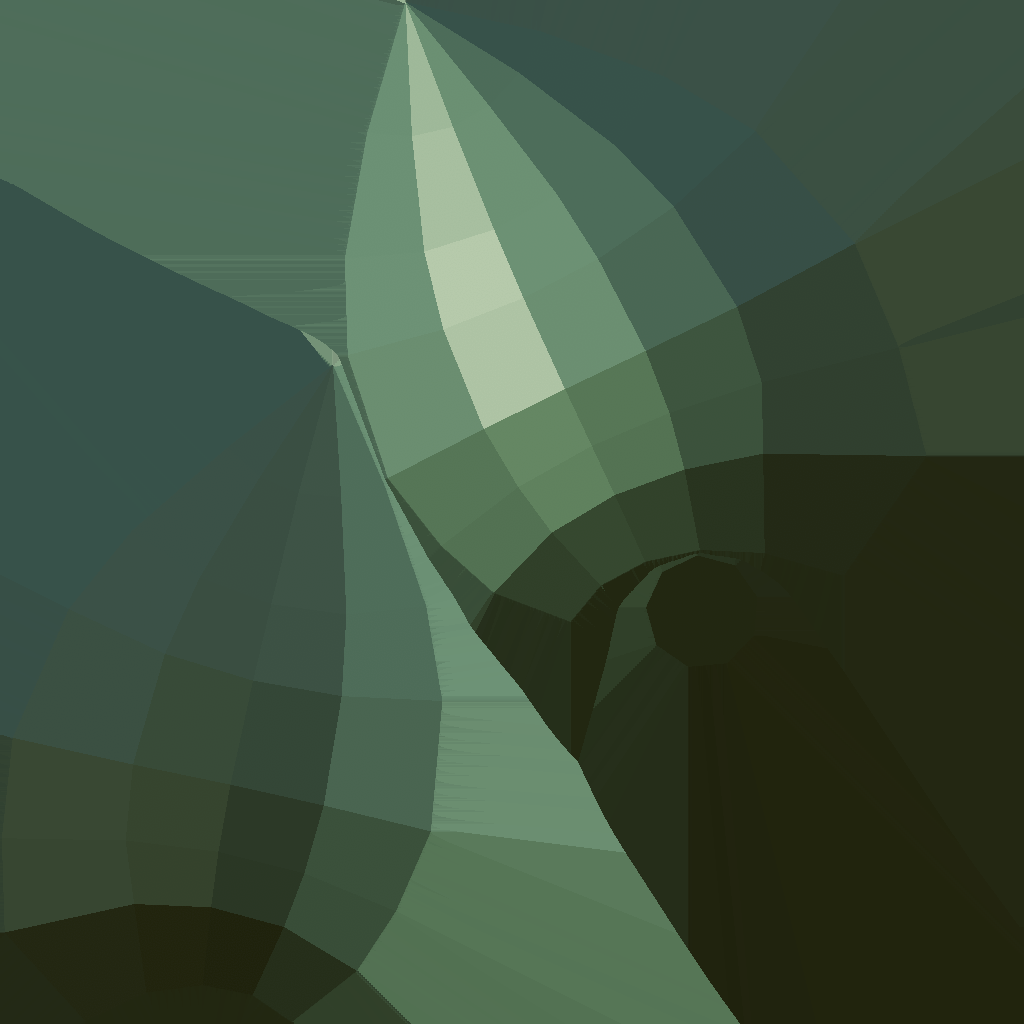
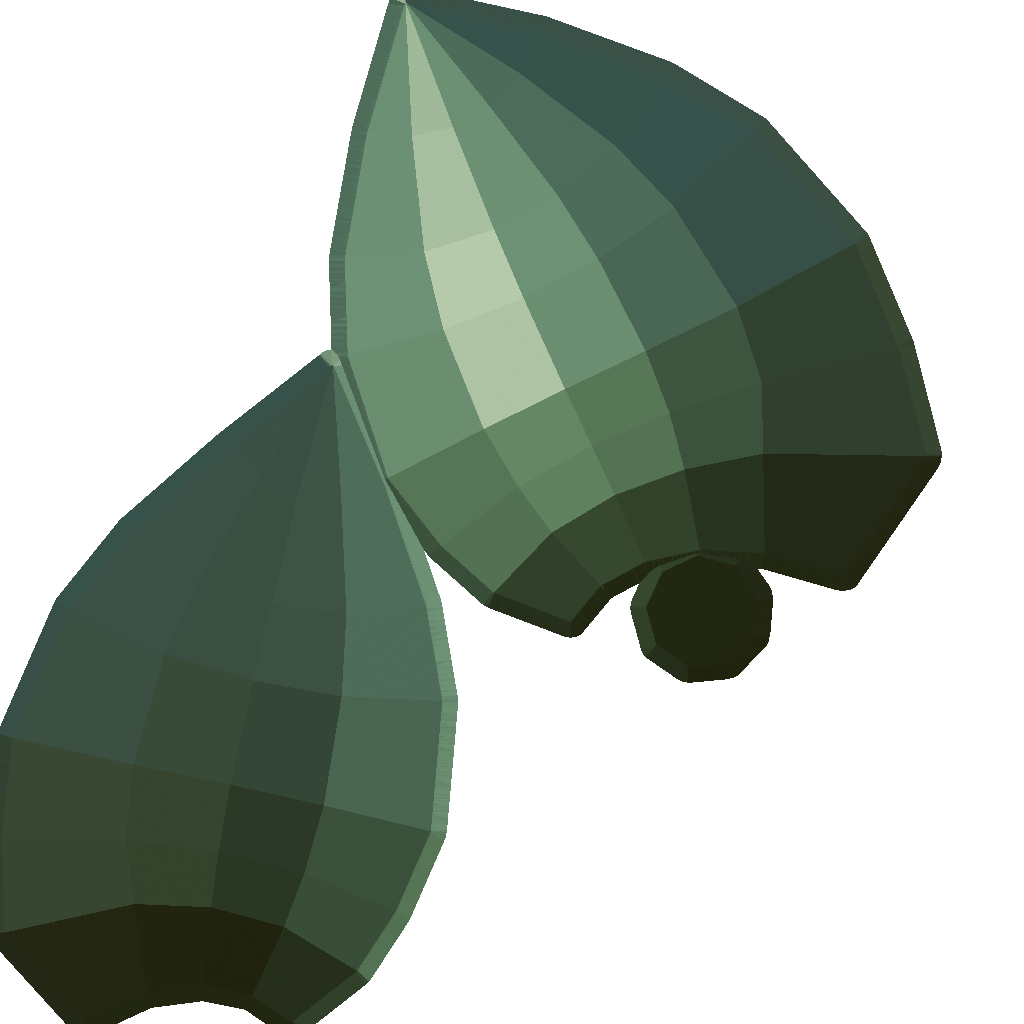
Meshs 3D fonctionnels

diff --git a/LyonPlexLib/LyonPlexLib/Src/MeshManager.cpp b/LyonPlexLib/LyonPlexLib/Src/MeshManager.cpp
@@ -321,15 +321,39 @@ bool MeshData::LoadFromFile(const std::string& path)
 	//	OutputDebugStringA(buf);
 	//}
 
+	  // ──────────────────────────────────────────────────────────────
+    // 1) Passage RH -> LH : inverser Z des positions et normales
+    for (size_t i = 0; i < attrib.vertices.size(); i += 3)
+        attrib.vertices[i + 2] = -attrib.vertices[i + 2];
+    
+	if (!attrib.normals.empty())
+    {
+        for (size_t i = 0; i < attrib.normals.size(); i += 3)
+            attrib.normals[i + 2] = -attrib.normals[i + 2];
+    }
 
+    //// 2) Inverser le winding de chaque face (swap i0/i1)
+    //for (auto &shape : shapes)
+    //{
+    //    auto &idxs = shape.mesh.indices;
+    //    for (size_t f = 0; f + 2 < idxs.size(); f += 3)
+    //        std::swap(idxs[f + 0], idxs[f + 1]);
+    //}
 
-	// store material names
+    // 3) Corriger le V de l’UV (optionnel mais souvent nécessaire)
+    for (size_t i = 0; i < attrib.texcoords.size(); i += 2)
+        attrib.texcoords[i + 1] = 1.0f - attrib.texcoords[i + 1];
+    // ──────────────────────────────────────────────────────────────
+
+    // store material names
 	materialNames.clear();
 	for (auto& m : materials)
 		materialNames.push_back(m.diffuse_texname);
 	
 	// dedupe and build global vertex list
-	vertices.clear(); indices.clear(); subMeshes.clear();
+	vertices.clear(); 
+	indices.clear(); 
+	subMeshes.clear();
 	std::unordered_map<VertexParam, uint32_t> uniqueVertices;
 	uint32_t indexCursor = 0;
 	for (size_t s = 0; s < shapes.size(); ++s)
@@ -351,15 +375,16 @@ bool MeshData::LoadFromFile(const std::string& path)
 			if (!attrib.texcoords.empty()) {
 				size_t ti = 2 * idx.texcoord_index;
 				v.TexCoord = { attrib.texcoords[ti], attrib.texcoords[ti + 1] };
-				//{
-				//	// DEBUG
-				//	char buf[128];
-				//	sprintf_s(buf, sizeof(buf),
-				//		"  build vert[%zu]  UV=(%.3f, %.3f)\n",
-				//		vertices.size(),
-				//		v.TexCoord.x, v.TexCoord.y);
-				//	OutputDebugStringA(buf);
-				//}
+				
+				//// DEBUG
+				{					
+					char buf[128];
+					sprintf_s(buf, sizeof(buf),
+						"  build vert[%zu]  UV=(%.3f, %.3f)\n",
+						vertices.size(),
+						v.TexCoord.x, v.TexCoord.y);
+					OutputDebugStringA(buf);
+				}
 			}
 			auto it = uniqueVertices.find(v);
 			if (it == uniqueVertices.end())
@@ -403,8 +428,10 @@ void MeshManager::Init(GraphicsDevice* graphicsDevice, TextureManager* textureMa
 	cb.materialTextureIDs = { 0 };
 	m_meshLibrary.Add(cb);
 
+
 	LoadMeshFromFile("../LyonPlexLib/Ressources/ArbreTest.obj");
 	LoadMeshFromFile("../LyonPlexLib/Ressources/Cepha1.obj");
+	LoadMeshFromFile("../LyonPlexLib/Ressources/Cube.obj");
 	BuildAndUploadGlobalBuffers();
 }
 
@@ -421,7 +448,23 @@ void MeshManager::LoadMeshFromFile(const std::string& path)
         const auto& name = mesh.materialNames[i];
         // assume relative to path's folder
         std::string baseDir = std::filesystem::path(path).remove_filename().string();
-        mesh.materialTextureIDs[i] = mp_textureManager->LoadTexture(baseDir + name);
+
+		// DEBUG
+		std::string texPath = baseDir + name;
+		char buf[256];
+		sprintf_s(buf, sizeof(buf),
+			"[LoadMeshFromFile] Loading texture `%s`\n", texPath.c_str());
+		OutputDebugStringA(buf);
+
+		TextureManager::TextureID tid = mp_textureManager->LoadTexture(texPath);
+
+		sprintf_s(buf, sizeof(buf),
+			"[LoadMeshFromFile] -> LoadTexture returned ID = %u\n", tid);
+		OutputDebugStringA(buf);
+
+		mesh.materialTextureIDs[i] = tid;
+        //mesh.materialTextureIDs[i] = mp_textureManager->LoadTexture(baseDir + name);
+
     }
 	// DEBUG
 	for (size_t i = 0; i < std::min<size_t>(mesh.vertices.size(), 6); ++i)

diff --git a/LyonPlexLib/SampleProject/Src/SampleScene2.cpp b/LyonPlexLib/SampleProject/Src/SampleScene2.cpp
@@ -29,27 +29,31 @@ void SampleScene2::Start()
 	AddComponent<MeshComponent>("cube", new MeshComponent(2, 0));
 	GetComponent<TransformComponent>("cube")->position = { 0, 0, -1 };
 
-	CreateEntity("tree1");
-	//AddComponent<Type_2D5>("tree1", new Type_2D5());
-	AddComponent<Type_3D_EXT>("tree1", new Type_3D_EXT());
-	AddComponent<MeshComponent>("tree1", new MeshComponent(3, 0));
-	GetComponent<TransformComponent>("tree1")->position = { 0, 0, 0 };
-	GetComponent<TransformComponent>("tree1")->scale = { 0.5, 0.5, 0.5 };
+	//CreateEntity("tree1");
+	//AddComponent<Type_3D_EXT>("tree1", new Type_3D_EXT());
+	//AddComponent<MeshComponent>("tree1", new MeshComponent(3, 0));
+	//GetComponent<TransformComponent>("tree1")->position = { 0, 0, 0 };
+	//GetComponent<TransformComponent>("tree1")->scale = { 0.5, 0.5, 0.5 };
 
 	CreateEntity("tree2");
-	//AddComponent<Type_2D5>("tree1", new Type_2D5());
 	AddComponent<Type_3D_EXT>("tree2", new Type_3D_EXT());
 	AddComponent<MeshComponent>("tree2", new MeshComponent(4, 5));
 	GetComponent<TransformComponent>("tree2")->position = { -2, 0, 0 };
 	GetComponent<TransformComponent>("tree2")->scale = { 0.5, 0.5, 0.5 };
 
-	CreateEntity("bras");
+	CreateEntity("cubeEXT");
+	AddComponent<Type_3D_EXT>("cubeEXT", new Type_3D_EXT());
+	AddComponent<MeshComponent>("cubeEXT", new MeshComponent(5, 5));
+	GetComponent<TransformComponent>("cubeEXT")->position = { 2, 0, 0 };
+	GetComponent<TransformComponent>("cubeEXT")->scale = { 0.5, 0.5, 0.5 };
+
+	/*CreateEntity("bras");
 	AddComponent<Type_2D>("bras", new Type_2D());
 	AddComponent<MeshComponent>("bras", new MeshComponent(2, 3));
 	GetComponent<TransformComponent>("bras")->position = { 400, 500, 0 };
 	GetComponent<TransformComponent>("bras")->scale = { 800, 500, 0 };
 	GetComponent<TransformComponent>("bras")->SetRotation(0, 0, 180);
-	GetComponent<TransformComponent>("bras")->dirty = true;
+	GetComponent<TransformComponent>("bras")->dirty = true;*/
 
 	//CreateEntity("cube2D");
 	//AddComponent<Type_2D>("cube2D", new Type_2D());
@@ -70,8 +74,9 @@ void SampleScene2::Start()
 void SampleScene2::Update(float deltatime)
 {
 	//GetComponent<TransformComponent>("cube2D")->AddRotation(0 ,-20 * deltatime, 0);
-	GetComponent<TransformComponent>("tree1")->AddRotation(0 ,15 * deltatime, 0);
-	GetComponent<TransformComponent>("tree2")->AddRotation(0 ,15 * deltatime, 0);
+	//GetComponent<TransformComponent>("tree1")->AddRotation(0 ,15 * deltatime, 0);
+	GetComponent<TransformComponent>("tree2")->AddRotation(0 ,50 * deltatime, 0);
+	GetComponent<TransformComponent>("cubeEXT")->AddRotation(0 ,25 * deltatime, 0);
 
 	//Input
 	if (InputManager::GetKeyIsPressed('Z'))

diff --git a/LyonPlexLib/LyonPlexLib/Src/Render3D.cpp b/LyonPlexLib/LyonPlexLib/Src/Render3D.cpp
@@ -80,28 +80,26 @@ void Render3D::RecordCommands()
 	mp_commandManager->GetCommandList()->RSSetViewports(1, &viewport);
 	mp_commandManager->GetCommandList()->RSSetScissorRects(1, &scissorRect);
 
-	//ComponentMask local3DMask = (1ULL << MeshComponent::StaticTypeID) | (1ULL << Type_3D_LOC::StaticTypeID);
-	//m_ECS->ForEach(local3DMask, [&](Entity ent)
-	//	{
-	//		//const Material& mat = materialLib.Get(m->materialID);
+	ComponentMask local3DMask = (1ULL << MeshComponent::StaticTypeID) | (1ULL << Type_3D_LOC::StaticTypeID);
+	m_ECS->ForEach(local3DMask, [&](Entity ent)
+		{
+			//const Material& mat = materialLib.Get(m->materialID);
 
-	//		UpdateAndBindCB(ent);
+			UpdateAndBindCB(ent);
 
-	//		MeshComponent* meshComp = m_ECS->GetComponent<MeshComponent>(ent);
-	//		uint32_t matID = meshComp->materialID;
-
-
-	//		const MeshData& data = m_meshManager->GetMeshLib().Get(meshComp->meshID);
-	//		mp_commandManager->GetCommandList()->DrawIndexedInstanced(
-	//			data.iSize,      // nombre d’indices
-	//			1,
-	//			data.iOffset,    // offset dans le buffer d’indices
-	//			0,				// BaseVertexLocation toujours = 0 ?
-	//			0
-	//		);
-	//	});
+			MeshComponent* meshComp = m_ECS->GetComponent<MeshComponent>(ent);
+			uint32_t matID = meshComp->materialID;
 
 
+			const MeshData& data = m_meshManager->GetMeshLib().Get(meshComp->meshID);
+			mp_commandManager->GetCommandList()->DrawIndexedInstanced(
+				data.iSize,      // nombre d’indices
+				1,
+				data.iOffset,    // offset dans le buffer d’indices
+				0,				// BaseVertexLocation toujours = 0 ?
+				0
+			);
+		});
 
 
 	ComponentMask loaded3DMask = (1ULL << MeshComponent::StaticTypeID) | (1ULL << Type_3D_EXT::StaticTypeID);
@@ -134,11 +132,19 @@ void Render3D::RecordCommands()
 					handle.ptr += texId * descSize;
 
 					// DEBUG
-					char buf[128];
+					/*char buf[128];
 					sprintf_s(buf, sizeof(buf),
-						"Binding texId=%u for submesh matID=%u\n",
-						texId, sub.MaterialID);
-					OutputDebugStringA(buf);
+						"Binding texId=%u for Entity = %u ; submesh matID=%u\n",
+						texId, ent, sub.MaterialID);
+					OutputDebugStringA(buf);*/
+					char bufDraw[128];
+					sprintf_s(bufDraw, sizeof(bufDraw),
+						"[Draw] Entity %u – mesh %u – subMat %u → texId = %u\n",
+						ent.id,
+						meshComp->meshID,
+						sub.MaterialID,
+						texId);
+					OutputDebugStringA(bufDraw);
 
 					// 3) binder **uniquement** ce handle sur rootParam 2 :
 					mp_commandManager->GetCommandList()->SetGraphicsRootDescriptorTable(/*rootParamIndex=*/ 2, handle);

diff --git a/LyonPlexLib/LyonPlexLib/Src/GraphicsPipeline.cpp b/LyonPlexLib/LyonPlexLib/Src/GraphicsPipeline.cpp
@@ -77,6 +77,7 @@ void GraphicsPipeline::CreateRootSignature()
 	// Static sampler (s0)
 	D3D12_STATIC_SAMPLER_DESC samplerDesc = {};
 	samplerDesc.Filter = D3D12_FILTER_MIN_MAG_MIP_LINEAR;
+	//samplerDesc.Filter = D3D12_FILTER_MIN_MAG_MIP_POINT;
 	samplerDesc.AddressU = D3D12_TEXTURE_ADDRESS_MODE_WRAP;
 	//samplerDesc.AddressU = D3D12_TEXTURE_ADDRESS_MODE_CLAMP;
 	samplerDesc.AddressV = D3D12_TEXTURE_ADDRESS_MODE_WRAP;
@@ -196,8 +197,8 @@ void GraphicsPipeline::CreatePipelineStateObject()
 
 	// ) Rasterizer State : on veut afficher la face exterieure, winding CCW = front
 	D3D12_RASTERIZER_DESC rasterDesc = CD3DX12_RASTERIZER_DESC(D3D12_DEFAULT);
-	//rasterDesc.CullMode = D3D12_CULL_MODE_BACK;          // On elimine les faces arriere (celles qu'on ne veut pas voir)	/!\/!\/!\	A REMETTRE SI PB DE PERFS /!\/!\/!\/
-	rasterDesc.CullMode = D3D12_CULL_MODE_NONE;          // On elimine laucune face
+	rasterDesc.CullMode = D3D12_CULL_MODE_BACK;          // On elimine les faces arriere (celles qu'on ne veut pas voir)	/!\/!\/!\	A REMETTRE SI PB DE PERFS /!\/!\/!\/
+	//rasterDesc.CullMode = D3D12_CULL_MODE_NONE;          // On elimine laucune face
 	rasterDesc.FrontCounterClockwise = TRUE;             // CCW = face avant, CW = face arriere 
 	rasterDesc.FillMode = D3D12_FILL_MODE_SOLID;         // Remplir normalement
 	rasterDesc.DepthClipEnable = TRUE;

diff --git a/LyonPlexLib/LyonPlexLib/Src/TextureManager.cpp b/LyonPlexLib/LyonPlexLib/Src/TextureManager.cpp
@@ -10,6 +10,8 @@ void TextureManager::Init(GraphicsDevice* graphicsDevice, DescriptorManager* des
 {
 	m_graphicsDevice = graphicsDevice;
 	m_descMgr = descriptorManager;
+
+    LoadTexture("../LyonPlexLib/Ressources/Test3.jpg");//0
 }
 
 TextureID TextureManager::LoadTexture(const std::string& key)
